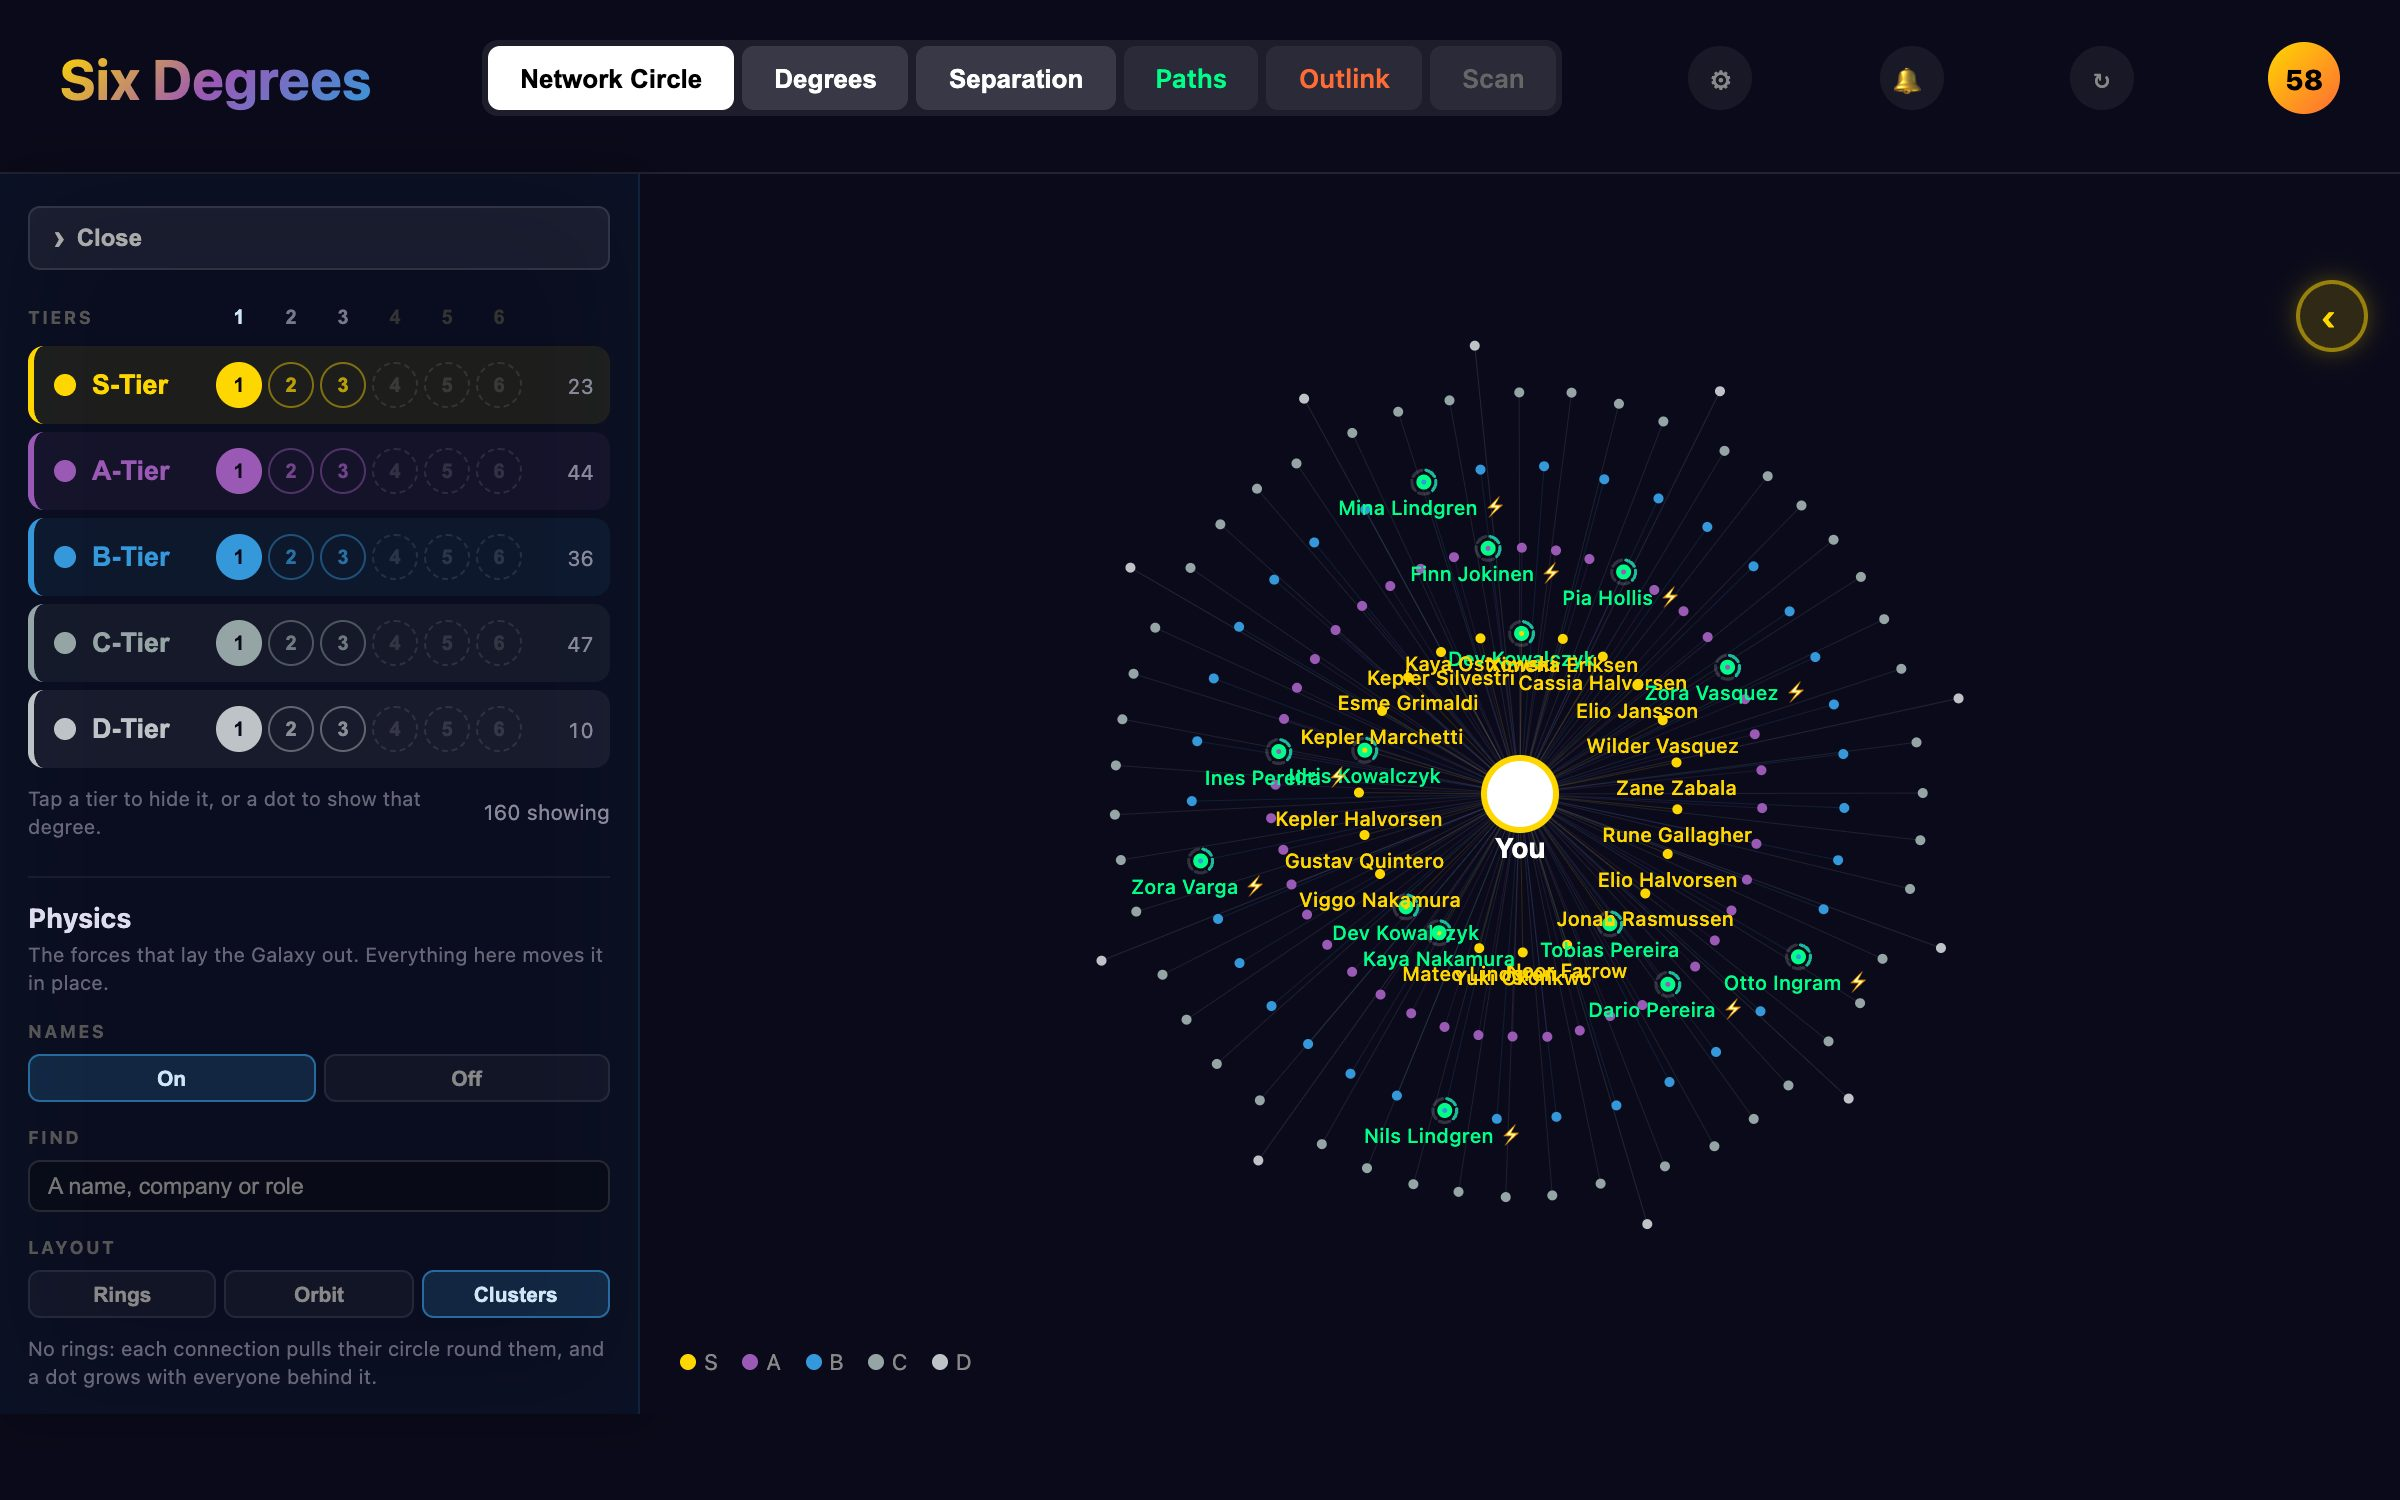
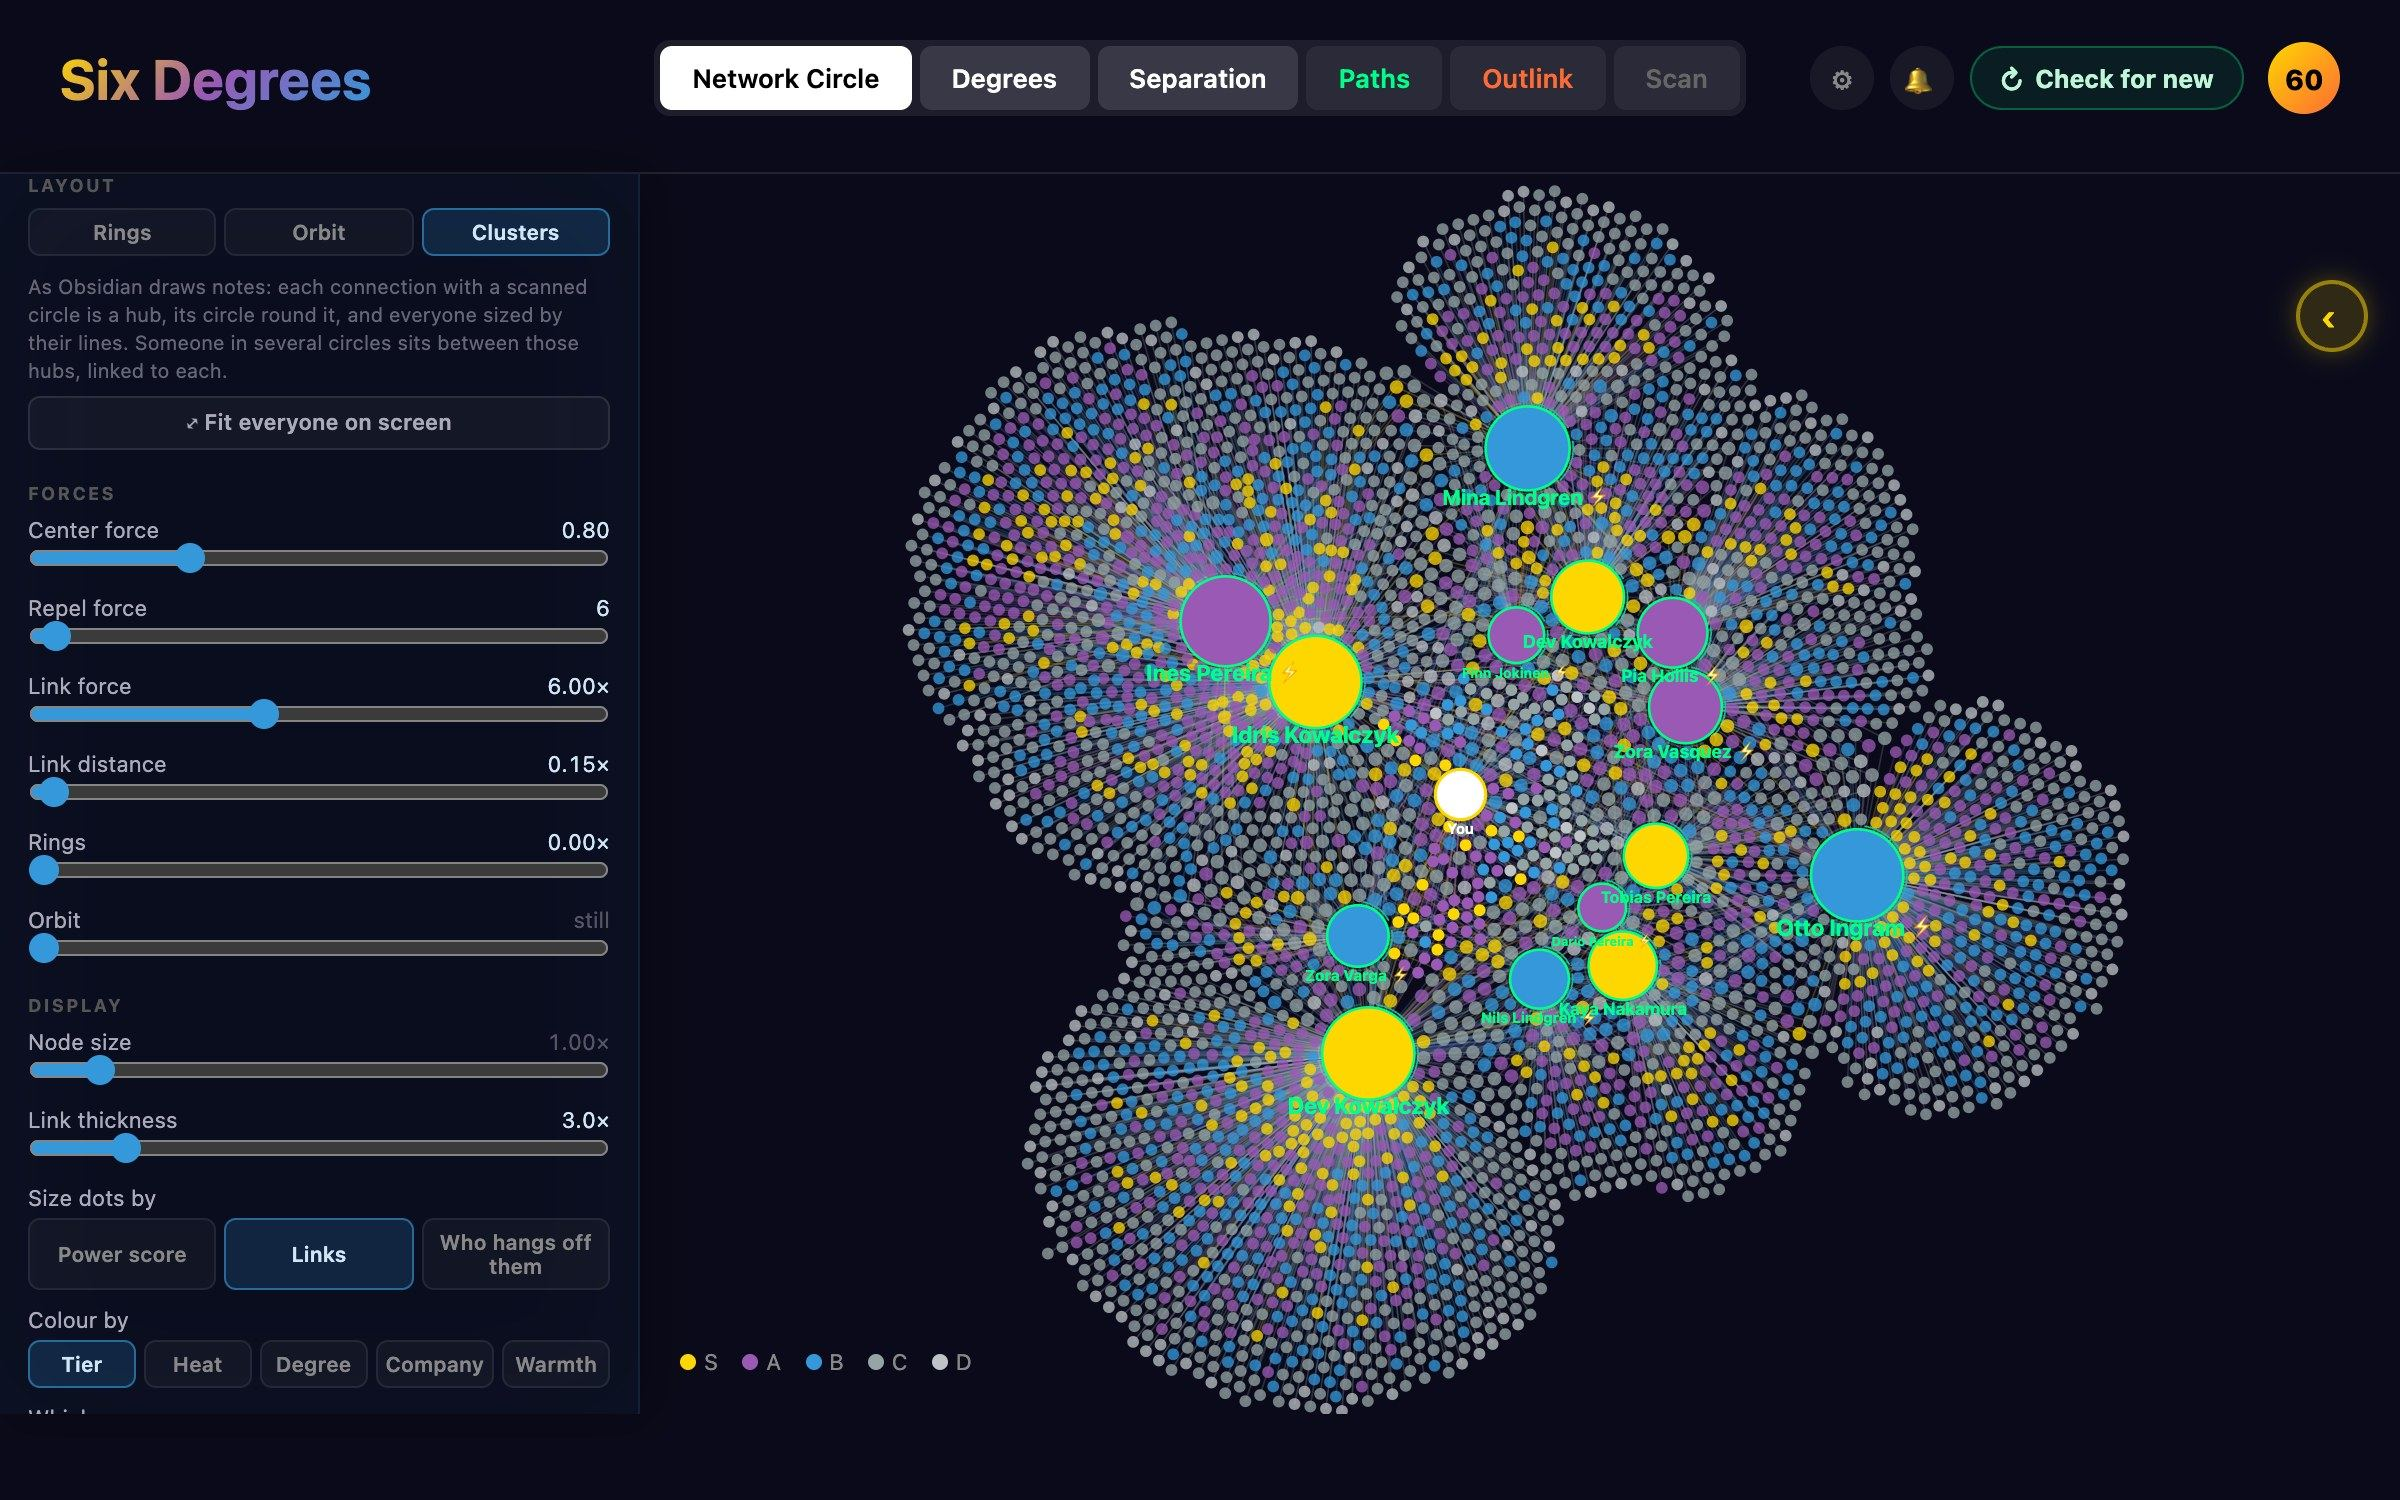
Release 0.6.0
Themes (Settings → Appearance), Clusters drawn the way Obsidian draws a graph
with an Orbit slider, the same header on every tab, dots on its line while a
scan runs, and Separation's tiers fixed. The site says 0.6.0, its physics lab
describes the new forces with a new picture (the invented test network), and
lists themes.

diff --git a/site/index.html b/site/index.html
@@ -46,9 +46,9 @@
       "applicationCategory": "BusinessApplication",
       "applicationSubCategory": "Professional networking",
       "operatingSystem": "macOS 13.5 or later; Windows 10 or 11 (beta); Linux (beta)",
-      "softwareVersion": "0.5.0",
+      "softwareVersion": "0.6.0",
       "datePublished": "2026-09-24",
-      "dateModified": "2026-10-02",
+      "dateModified": "2026-10-03",
       "isAccessibleForFree": true,
       "license": "https://github.com/blakeb056/six-degrees/blob/main/LICENSE",
       "offers": {
@@ -74,6 +74,7 @@
         "Who only one connection reaches: each connection's exclusive reach",
         "Network health: how much of your 2nd degree you reach two or more ways",
         "A physics lab for the Galaxy, and a replay of your network growing",
+        "Themes: seven looks, or your own colours for everything",
         "Import LinkedIn's Connections.csv",
         "Optional scanning of your own LinkedIn in a Chrome window you sign into",
         "Updates in one click",
@@ -431,10 +432,11 @@
     <section class="moment reveal">
       <p class="pill-line"><span class="pill">experimental</span></p>
       <h3>A physics lab for your galaxy.</h3>
-      <p>Sliders for gravity, rings, push and pull. Let the rings go and each connection gathers their circle around
-        them. Hover anyone to light up their branch.</p>
+      <p>Obsidian's forces, center, repel, link force and link distance, saying what each does to your network. Pick
+        Clusters and it draws like Obsidian: one round disc, each scanned connection a big hub with their circle around
+        them, and anyone in two circles tying them together. Turn up Orbit and it all slowly turns round you.</p>
       <figure class="shot">
-        <img src="/img/app/lab-clusters.jpg" srcset="/img/app/lab-clusters-1200.jpg 1200w, /img/app/lab-clusters.jpg 2400w" sizes="(max-width: 1120px) calc(100vw - 32px), 1072px" alt="Physics beside the Galaxy, laid out as clusters" width="2400" height="1500" loading="lazy">
+        <img src="/img/app/lab-clusters.jpg" srcset="/img/app/lab-clusters-1200.jpg 1200w, /img/app/lab-clusters.jpg 2400w" sizes="(max-width: 1120px) calc(100vw - 32px), 1072px" alt="Physics beside the Galaxy, laid out as Clusters: a round disc of invented people, big hubs each with their circle around them" width="2400" height="1500" loading="lazy">
       </figure>
     </section>
 

diff --git a/site/_pages/roadmap.html b/site/_pages/roadmap.html
@@ -40,6 +40,7 @@ updated: 2026-09-29
     <section class="road shipped" aria-labelledby="road-shipped">
       <h2 id="road-shipped"><span class="road-dot" aria-hidden="true"></span>Shipped</h2>
       <ol class="timeline" role="list">
+        <li><a href="/releases/#v0.6.0">0.6.0</a><span>Themes, seven looks or your own colours; Clusters drawn the way Obsidian draws a graph, with Orbit; the same header on every tab; dots on its line while a scan runs.</span></li>
         <li><a href="/releases/#v0.5.0">0.5.0</a><span>One header on every page, Separation as its own tab, Heat and Orbit in the Galaxy, a new Paths, ranking titles your way, and a Scan page that launches in four steps.</span></li>
         <li><a href="/releases/#v0.4.11">0.4.11</a><span>Social becomes a full CRM: every conversation, sent and received, stages, notes and follow-ups.</span></li>
         <li><a href="/releases/#v0.4.10">0.4.10</a><span>The notch: a small pill under the header for scanning and other long jobs.</span></li>

diff --git a/CHANGELOG.md b/CHANGELOG.md
@@ -6,7 +6,32 @@ and this project adheres to [Semantic Versioning](https://semver.org/spec/v2.0.0
 
 ## [Unreleased]
 
+## [0.6.0] - 2026-10-03
+
+### Added
+- **Themes** (Settings → Appearance). Seven looks: Standard, High contrast, Obsidian, Glass,
+  Analyst, Space and Synthwave, each with a small preview of the map in its colours. Then make it
+  yours: the background and a second colour, a backdrop behind everything (stars, a grid, a glow,
+  a sunset horizon), the accent, each tier's dot and your own, the map's lines (in the colour of
+  the person they lead to, or one colour), how see-through the side panels are, and the font.
+  Everything changes as you go, on every page, and stays in this browser. Copy a theme code to
+  share a look; pasting one only ever sets colours and choices.
+- **Clusters, the way Obsidian draws a graph** (Network Circle → Filters → Layout → Clusters). Your
+  network as one round disc: each connection with a scanned circle is a big hub with their circle
+  around them, and everyone is sized by their lines. Someone in several circles is linked to each
+  of them, so they sit between those hubs and tie them together. The forces have Obsidian's names,
+  Center force, Repel force, Link force and Link distance, each saying what it does to your
+  network. Names fade as you zoom out, all but the hubs'. Picking a layout fits everyone on screen,
+  and so does ⤢ Fit.
+- **Orbit** (Filters → Forces): sets the whole map turning round you, every circle with it, so
+  nothing loses its shape. Still under Reduce Motion.
+- **Dots along the header's line while a scan runs**: one for each page the scanner reads,
+  collecting from the left, on every tab. A click opens the Scan page.
+
 ### Changed
+- **The same header on every tab.** The tabs sit in the exact middle of the window, and Settings,
+  notifications, ↻ Check for new and your level are on Paths, Outlink and Scan too. A notification
+  picked on another tab opens on the map.
 - **Separation fits a laptop's window.** The header is slimmer: the search sits in the title's row,
   the tier line stays without the sentence under it (it's the title's tooltip now), Only show sits
   beside the tiers, the pill saying where the slider is sits over its middle, and the long
@@ -18,6 +43,13 @@ and this project adheres to [Semantic Versioning](https://semver.org/spec/v2.0.0
   dots to see a step.
 - **↻ Check for new**, in words, in the map's header (it was a bare ↻): the same name as the Scan
   page's button, for checking your LinkedIn for new connections in one click.
+
+### Fixed
+- **Separation's tiers choose who's ranked, not who leads to them.** Hiding a tier in Filters also
+  hid your connections of that tier (the purple A-tier lines), so the people they lead to lost a
+  way in. In Separation every connection now stays a way in, whatever its tier.
+- The level in the round button at the top right matches the Profile page's: it left out C and D
+  tiers and catalysts, so it read lower.
 
 ## [0.5.1-beta.1] - 2026-10-02 (beta: a pre-release, never installed automatically)
 
